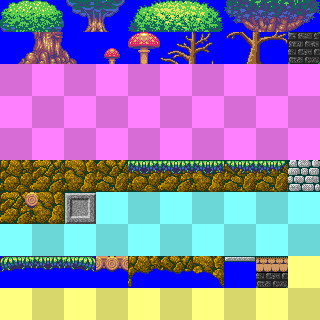
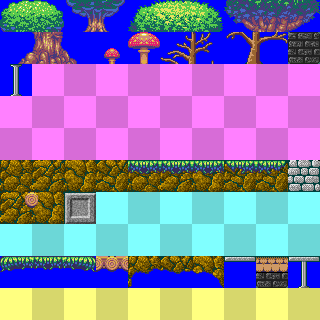
More monsters, starting Overworld 1

Changed region(s): [[0.0, 0.1875, 0.125, 0.3125], [0.875, 0.7812, 1.0, 0.9062]]

diff --git a/monster.py b/monster.py
@@ -24,8 +24,11 @@ class Monster( things.LivingThing ):
 
         else:
             for t in levelmap.contents:
-                if isinstance( t , player.Player ) and self.is_touching( t ):
-                    t.hurt( self.DAMAGE , self.liverect() , levelmap )
+                self.interact( levelmap , t )
+
+    def interact( self, levelmap, other ):
+        if isinstance( other , player.Player ) and self.is_touching( other ):
+            other.hurt( self.DAMAGE , self.liverect() , levelmap )
 
     def die( self , levelmap ):
         # This monster is dying. Maybe do something?
@@ -167,11 +170,34 @@ class AcidDragon( Monster ):
         # Do a big boom.
         levelmap.contents.append( animob.BigBoom( self.x + self.dx - 1 , self.y + self.dy - 1 , loop = 2 ))
 
+class AcidPool( Monster ):
+    NAME = "Acid Pool"
+    CAN_KNOCK_BACK = False
+    DAMAGE = 1
+    shield = -1
 
-class BlackBear( Monster ):
-    NAME = "Black Bear"
     def __init__( self , x , y ):
-        super(BlackBear, self).__init__(x,y,width=27,height=16,sprite_name="monster_blackbear.png",frame=0,topmargin=0,sidemargin=0,bottommargin=0,health=5)
+        super(AcidPool, self).__init__(x,y,width=32,height=32,sprite_name="monster_acid.png",frame=0,topmargin=2,sidemargin=0,bottommargin=0,health=9999)
+        self.flicker = True
+
+    def do_ai( self , levelmap ):
+        self.update_faller( levelmap )
+        if self.flicker:
+            self.frame = ( self.frame + 1 ) % 4
+        self.flicker = not self.flicker
+
+    def hit( self , levelmap ):
+        self.health = 9999
+
+    def interact( self, levelmap, other ):
+        if self.is_touching( other ):
+            if isinstance( other , GreenSlime ):
+                # Automatically send slimes back to the slime factory.
+                levelmap.contents.remove( other )
+                levelmap.contents.append( animob.GreenSplat( other.mid_x() - 16 , other.mid_y() - 16 ))
+            elif isinstance( other , things.LivingThing ):
+                other.hurt( self.DAMAGE , self.liverect() , levelmap )
+
 
 class BlueSlime( Monster ):
     NAME = "Blue Slime"
@@ -182,7 +208,7 @@ class BlueSlime( Monster ):
     counter = 0
 
     def __init__( self , x , y ):
-        super(BlueSlime, self).__init__(x,y,width=32,height=32,sprite_name="monster_slime_blue.png",frame=0,topmargin=10,sidemargin=2,bottommargin=6,health=5)
+        super(BlueSlime, self).__init__(x,y,width=32,height=32,sprite_name="monster_32px.png",frame=4,topmargin=10,sidemargin=2,bottommargin=6,health=5)
 
     def do_ai( self , levelmap ):
         if self.wander_now:
@@ -199,14 +225,28 @@ class BlueSlime( Monster ):
     def hit( self , levelmap ):
         levelmap.contents.append( animob.GreenSplat( self.mid_x() - 16 , self.mid_y() - 16 ))
 
+
 class Bat( Monster ):
     NAME = "Bat"
     def __init__( self , x , y ):
-        super(Bat, self).__init__(x,y,width=32,height=32,sprite_name="monster_bat.png",frame=0,topmargin=6,sidemargin=2,bottommargin=10,health=1)
+        super(Bat, self).__init__(x,y,width=32,height=32,sprite_name="monster_32px.png",frame=2,topmargin=6,sidemargin=2,bottommargin=10,health=1)
 
     def do_ai( self , levelmap ):
         # This is the monster's chance to act.
         self.update_flier( levelmap )
+
+class DeathYak( Monster ):
+    NAME = "Death Yak"
+    DAMAGE = 2
+    SPEED = 5
+    def __init__( self , x , y ):
+        super(DeathYak, self).__init__(x,y,width=32,height=32,sprite_name="monster_32px.png",frame=1,topmargin=5,sidemargin=1,bottommargin=2,health=8)
+
+
+class Fangwolf( Monster ):
+    NAME = "Fangwolf"
+    def __init__( self , x , y ):
+        super(Fangwolf, self).__init__(x,y,width=32,height=32,sprite_name="monster_32px.png",frame=0,topmargin=11,sidemargin=2,bottommargin=4,health=5)
 
 class Frog( Monster ):
     NAME = "Giant Frog"
@@ -214,7 +254,7 @@ class Frog( Monster ):
     SPEED = 3
 
     def __init__( self , x , y ):
-        super(Frog, self).__init__(x,y,width=32,height=32,sprite_name="monster_frog_green.png",frame=0,topmargin=4,sidemargin=2,bottommargin=5,health=5)
+        super(Frog, self).__init__(x,y,width=32,height=32,sprite_name="monster_32px.png",frame=3,topmargin=4,sidemargin=2,bottommargin=5,health=5)
 
     def do_ai( self , levelmap ):
         self.update_patroller( levelmap )
@@ -223,6 +263,89 @@ class Frog( Monster ):
             self.dy = -8 - random.randint( 1 , 4 )
             self.counter = random.randint( 1 , 20 )
 
-MANUAL = (Frog, Bat, BlueSlime, BlackBear, AcidDragon)
+class GreenSlime( Monster ):
+    NAME = "Green Slime"
+    CAN_KNOCK_BACK = False
+    DAMAGE = 1
+    SPEED = 2
+    wander_now = True
+
+    def __init__( self , x , y ):
+        super(GreenSlime, self).__init__(x,y,width=32,height=32,sprite_name="monster_32px.png",frame=5,topmargin=10,sidemargin=2,bottommargin=6,health=4)
+        self.counter = random.randint( 1 , 30 )
+
+    def do_ai( self , levelmap ):
+        if self.wander_now:
+            self.update_wanderer( levelmap )
+        else:
+            self.update_faller( levelmap )
+        self.counter += -1
+        if self.counter < 1:
+            self.wander_now = not self.wander_now
+            self.counter = random.randint( 15 , 50 )
+            if random.randint( 1 , 4 ) == 1:
+                self.xdir = 0
+
+    def hit( self , levelmap ):
+        levelmap.contents.append( animob.GreenSplat( self.mid_x() - 16 , self.mid_y() - 16 ))
+
+class KoboldGuard( Monster ):
+    NAME = "Kobold Guard"
+    DAMAGE = 1
+    SPEED = 5
+    def __init__( self , x , y ):
+        super(KoboldGuard, self).__init__(x,y,width=32,height=32,sprite_name="monster_32px.png",frame=7,topmargin=5,sidemargin=7,bottommargin=1,health=1)
+
+class KoboldFighter( Monster ):
+    NAME = "Kobold Fighter"
+    DAMAGE = 1
+    SPEED = 5
+    def __init__( self , x , y ):
+        super(KoboldFighter, self).__init__(x,y,width=32,height=32,sprite_name="monster_32px.png",frame=8,topmargin=5,sidemargin=3,bottommargin=1,health=1)
+        self.counter = 0
+    def do_ai( self , levelmap ):
+        self.update_patroller( levelmap )
+        self.counter += 1
+        if ( self.counter > 90 ) and not levelmap.is_a_space( self.foot_x() , self.foot_y() ):
+            self.dy = -8 - random.randint( 1 , 4 )
+            self.counter = random.randint( 1 , 20 )
+
+
+class Troglodyte( Monster ):
+    NAME = "Troglodyte"
+    DAMAGE = 4
+    SPEED = 3
+    CAN_KNOCK_BACK = False
+    def __init__( self , x , y ):
+        super(Troglodyte, self).__init__(x,y,width=32,height=32,sprite_name="monster_32px.png",frame=6,topmargin=3,sidemargin=1,bottommargin=4,health=25)
+
+
+class WallOfPain( Monster ):
+    NAME = "Wall of Pain"
+    CAN_KNOCK_BACK = False
+    DAMAGE = 5
+    flicker = True
+
+    def __init__( self , x , y ):
+        super(WallOfPain, self).__init__(x,y,width=32,height=64,sprite_name="monster_wall.png",frame=0,topmargin=0,sidemargin=0,bottommargin=1,health=25)
+        self.df = 1
+
+    def do_ai( self , levelmap ):
+        self.update_faller( levelmap )
+        if self.flicker:
+            self.frame += self.df
+            if ( self.frame == 0 ) or ( self.frame == 3 ):
+                self.df = -self.df
+        self.flicker = not self.flicker
+
+    def hit( self , levelmap ):
+        levelmap.contents.append( animob.EarthBoom( self.mid_x() - 16 , self.mid_y() - 16 ))
+
+    def die( self , levelmap ):
+        # Do a big boom.
+        levelmap.contents.append( animob.BigBoom( self.x + self.dx - 16 , self.y + self.dy - 1 ))
+
+
+MANUAL = (Frog, Bat, BlueSlime, Fangwolf, AcidDragon, AcidPool, WallOfPain, DeathYak, GreenSlime,Troglodyte,KoboldGuard,KoboldFighter)
 
 

diff --git a/editor.py b/editor.py
@@ -17,15 +17,19 @@ TERRAIN_NEXT = {0:1,1:2,2:3,3:0,4:5,5:6,6:7,7:8,8:9,9:10,10:11,11:12,12:4,15:16,
 
 
 class MenuRedrawer( object ):
-    def __init__( self , caption , screen , backdrop = "bg_kde_fractalnebula.jpg" ):
+    def __init__( self , caption , screen , backdrop = "bg_kde_fractalnebula.jpg", levelmap = None ):
         self.caption = caption
         self.backdrop = image.Image( backdrop )
         self.counter = 0
+        self.levelmap = levelmap
 
         self.rect = pygame.Rect( screen.get_width()/2 - 200 , screen.get_height()/2 - 220, 400, 64 )
 
     def __call__( self , screen ):
-        self.backdrop.tile( screen , ( self.counter * 5 , self.counter ) )
+        if self.levelmap != None:
+            self.levelmap.render( screen , show_special = True )
+        else:
+            self.backdrop.tile( screen , ( self.counter * 5 , self.counter ) )
         pygwrap.draw_border( screen , self.rect )
         pygwrap.draw_text( screen , rpgmenu.MENUFONT , self.caption , self.rect , do_center = True )
         self.counter += 5
@@ -75,12 +79,23 @@ def choose_terrain( levelmap , screen ):
 
 
 
-def select_monster( levelmap , screen ):
+def select_monster( levelmap , screen , prompt = "Select a Monster" ):
     # Bring up a menu to select a monster, then return its class.
     rpm = rpgmenu.Menu( screen , x=screen.get_width()/2 - 200 , y=screen.get_height()/2 - 130, w=400, h=300 )
     for m in monster.MANUAL:
         rpm.add_item( m.NAME , m )
     rpm.sort()
+    myredraw = MenuRedrawer( prompt , screen , levelmap = levelmap )
+    rpm.predraw = myredraw
+    return rpm.query()
+
+def select_number( levelmap , screen , a , b, c, prompt = "Select Number of Products" ):
+    # Select a number for whatever reason. a,b,c are the input for range.
+    rpm = rpgmenu.Menu( screen , x=screen.get_width()/2 - 200 , y=screen.get_height()/2 - 130, w=400, h=300 )
+    for t in range( a , b, c ):
+        rpm.add_item( str( t ) , t )
+    myredraw = MenuRedrawer( prompt , screen , levelmap = levelmap )
+    rpm.predraw = myredraw
     return rpm.query()
 
 def edit_map( levelmap , screen ):
@@ -101,6 +116,7 @@ def edit_map( levelmap , screen ):
                 levelmap.center_on( curs_x * levelmap.tile_size + 16 , curs_y * levelmap.tile_size + 16 )
                 levelmap.render( screen , show_special = True )
                 edit_cursor.render( screen , ( screen.get_width() / 2 - 16 , screen.get_height() / 2 - 16 ) , 0 )
+                pygwrap.draw_text( screen , pygwrap.SMALLFONT , str( curs_x ) + "," + str( curs_y ) , pygame.Rect( 8 , 42 , 64 , 32 ) )
 
                 if terrain > -1:
                     levelmap.sprite.render( screen , ( 8 , 8 ) , terrain )
@@ -129,6 +145,12 @@ def edit_map( levelmap , screen ):
                     levelmap.map[curs_x][curs_y] = terrain
                     if terrain in TERRAIN_NEXT:
                         terrain = TERRAIN_NEXT[ terrain ]
+
+                elif ev.unicode == u"_":
+                    for x in range( 0 , levelmap.width ):
+                        levelmap.map[x][curs_y] = terrain
+                        if terrain in TERRAIN_NEXT:
+                            terrain = TERRAIN_NEXT[ terrain ]
 
                 elif ev.key == pygame.K_DELETE:
                     # If there's a thing in this tile, delete it.
@@ -160,9 +182,11 @@ def edit_map( levelmap , screen ):
                         levelmap.contents.append( monster( x = curs_x * levelmap.tile_size , y = curs_y * levelmap.tile_size ) )
 
                 elif ev.key == pygame.K_g:
-                    monster = select_monster( levelmap , screen )
-                    if monster:
-                        levelmap.contents.append( generator.Generator(x = curs_x * levelmap.tile_size , y = curs_y * levelmap.tile_size, product=monster, number = 5) )
+                    monster = select_monster( levelmap , screen , prompt = "Select Monster to Generate" )
+                    n = select_number( levelmap , screen , 1, 11, 1, prompt = "How many at once?" )
+                    freq = select_number( levelmap , screen , 30, 301 , 30, prompt = "How often to generate?" )
+                    if monster and n:
+                        levelmap.contents.append( generator.Generator(x = curs_x * levelmap.tile_size , y = curs_y * levelmap.tile_size, product=monster, number = n , frequency = freq ) )
 
                 elif ev.key == pygame.K_s:
                     if levelmap.fname == "":

diff --git a/things.py b/things.py
@@ -6,7 +6,7 @@ import math
 class Thing( object ):
     # A Thing is a generic game object, i.e. the parent class of just about
     # everything else.
-    def __init__(self, x=0, y=0, width=32, height=32, sprite_name="", frame=0, topmargin=0, sidemargin=0, bottommargin=0 ):
+    def __init__(self, x=0, y=0, width=32, height=32, sprite_name="", frame=0, topmargin=0, sidemargin=0, bottommargin=0, invisible=False ):
         self.x = x
         self.y = y
         self.dx = 0
@@ -19,6 +19,7 @@ class Thing( object ):
         self.topmargin = topmargin
         self.sidemargin = sidemargin
         self.bottommargin = bottommargin
+        self.invisible = invisible
 
     def liverect( self ):
         """ return the live rectangle to be used for collision detection, etc
@@ -35,10 +36,11 @@ class Thing( object ):
     def update( self, levelmap ):
         pass
 
-    def render( self, screen, levelmap ):
-        if self.sprite == None:
-            self.sprite = image.Image( self.sprite_name , self.width , self.height )
-        self.sprite.render( screen , (self.x-levelmap.off_x,self.y-levelmap.off_y), self.frame )
+    def render( self, screen, levelmap, show_special=False ):
+        if show_special or not self.invisible:
+            if self.sprite == None:
+                self.sprite = image.Image( self.sprite_name , self.width , self.height )
+            self.sprite.render( screen , (self.x-levelmap.off_x,self.y-levelmap.off_y), self.frame )
 
     def decelerate_x( self ):
         if self.dx > 0:
@@ -61,7 +63,7 @@ class Thing( object ):
                 if levelmap.is_an_obstacle( self.foot_x(), self.foot_y() ) or levelmap.is_a_platform( self.foot_x() , self.foot_y() ):
                     # We want to land exactly at the surface of the tile, not embedded part way through it.
                     # The following formula might be magic but it works.
-                    self.y = ( self.y / levelmap.tile_size ) * levelmap.tile_size + levelmap.tile_size - ( ( self.height - self.bottommargin ) % levelmap.tile_size )
+                    self.y = ( self.foot_y() / levelmap.tile_size ) * levelmap.tile_size  - ( self.height - self.bottommargin )
                     self.dy = 0
                     has_just_landed = True
         return has_just_landed

diff --git a/generator.py b/generator.py
@@ -4,21 +4,18 @@ import animob
 class Generator( things.Thing ):
     # A Generator creates new things- usually monsters, maybe bullets, whatever.
 
-    def __init__(self, x=0, y=0, product=None, number=1 ):
-        super(Generator, self).__init__(x,y)
+    def __init__(self, x=0, y=0, product=None, number=1, frequency=150 ):
+        super(Generator, self).__init__(x,y,width=32,height=32,sprite_name="special_sprites.png",invisible=True)
         self.product = product
         self.children = []
         self.counter = 0
         self.number = number
+        self.frequency = frequency
 
     def update( self , levelmap ):
         self.counter += 1
-        if self.counter > 150:
+        if self.counter > self.frequency:
             self.counter = 0
-            # Check to see if any children need to be removed.
-            for c in self.children:
-                if c not in levelmap.contents:
-                    self.children.remove( c )
             if len( self.children ) < self.number:
                 # Create a new child.
                 c = self.product( x = self.x , y = self.y )
@@ -27,7 +24,10 @@ class Generator( things.Thing ):
 
                 c = animob.BlueBoom( x = self.x , y = self.y , loop = 2 )
                 levelmap.contents.append( c )
+            else:
+                # Check to see if any children need to be removed.
+                for c in self.children:
+                    if c not in levelmap.contents:
+                        self.children.remove( c )
 
-    def render( self, screen, levelmap ):
-        # Generators are invisible.
-        pass
+

diff --git a/main.py b/main.py
@@ -47,19 +47,6 @@ while keep_going:
     if n == 1:
         the_level = maps.load( "gorch.dat" )
         pc = player.Player( x = 100, y=360 )
-
-        bear = monster.AcidDragon( x= 170, y=200 )
-        the_level.contents.append( bear )
-
-        bear = monster.Frog( x= 350, y=240 )
-        the_level.contents.append( bear )
-
-        bat = monster.Bat( x= 500, y=100 )
-        the_level.contents.append( bat )
-
-        slime = monster.BlueSlime( x= 320, y=100 )
-        the_level.contents.append( slime )
-
         the_level.enter( pc , screen )
 
     elif n == 2:

diff --git a/maps.py b/maps.py
@@ -89,7 +89,7 @@ class Map( object ):
                         pygwrap.draw_text( screen , pygwrap.SMALLFONT , "PC" , dest , do_center = True )
 
         for t in self.contents:
-            t.render( screen , self )
+            t.render( screen , self , show_special )
 
     def update( self ):
         for t in self.contents:
